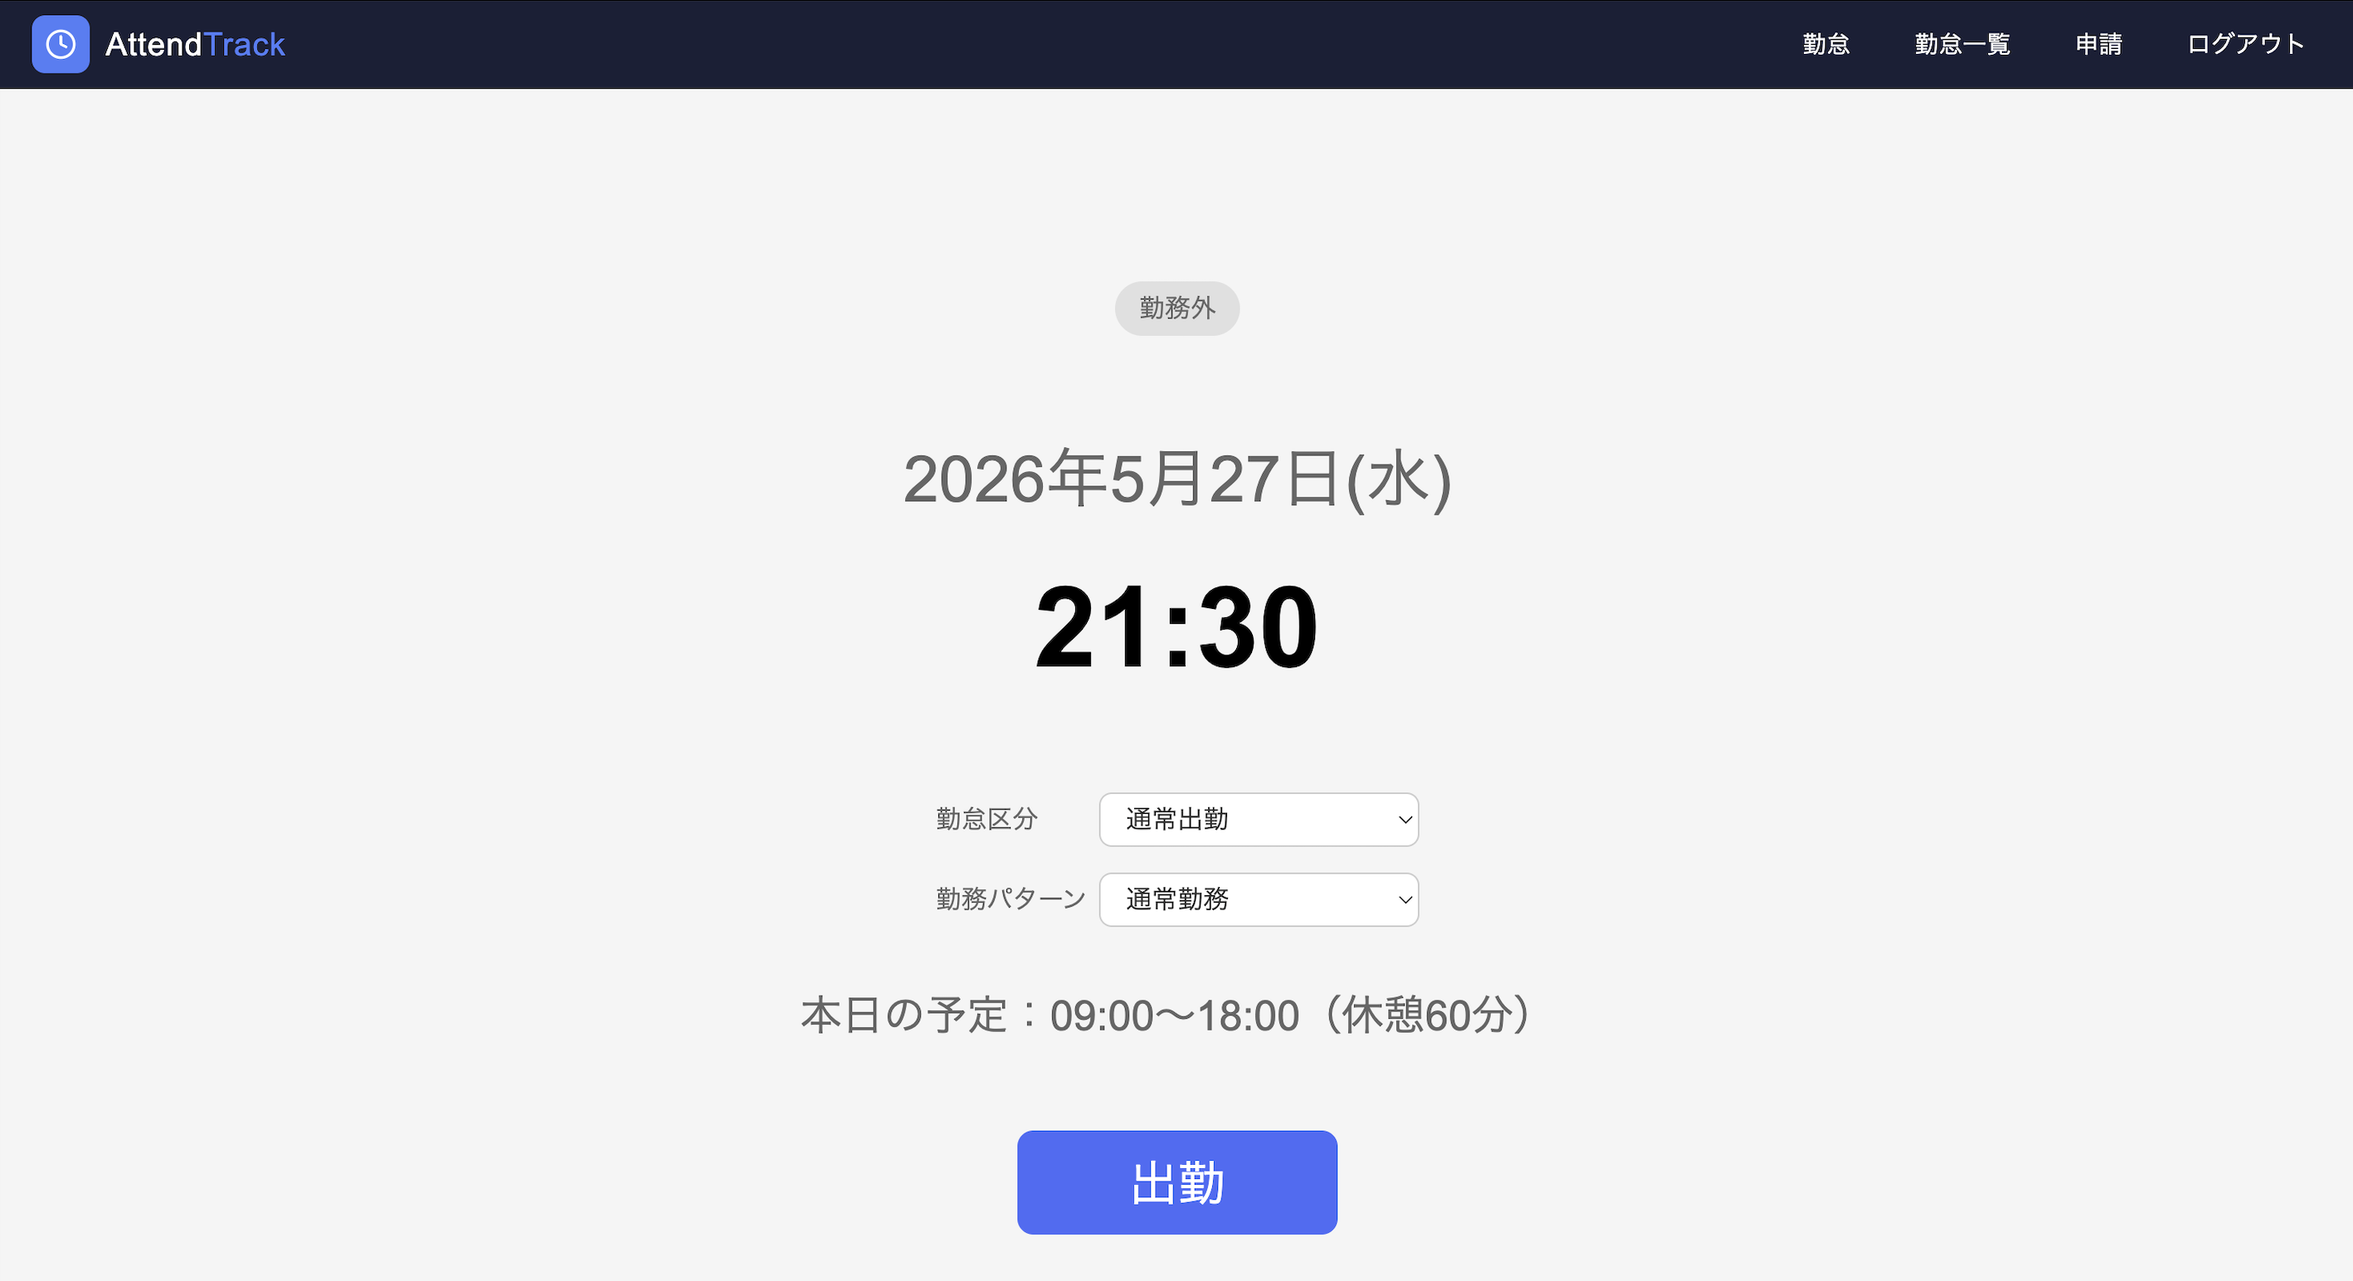
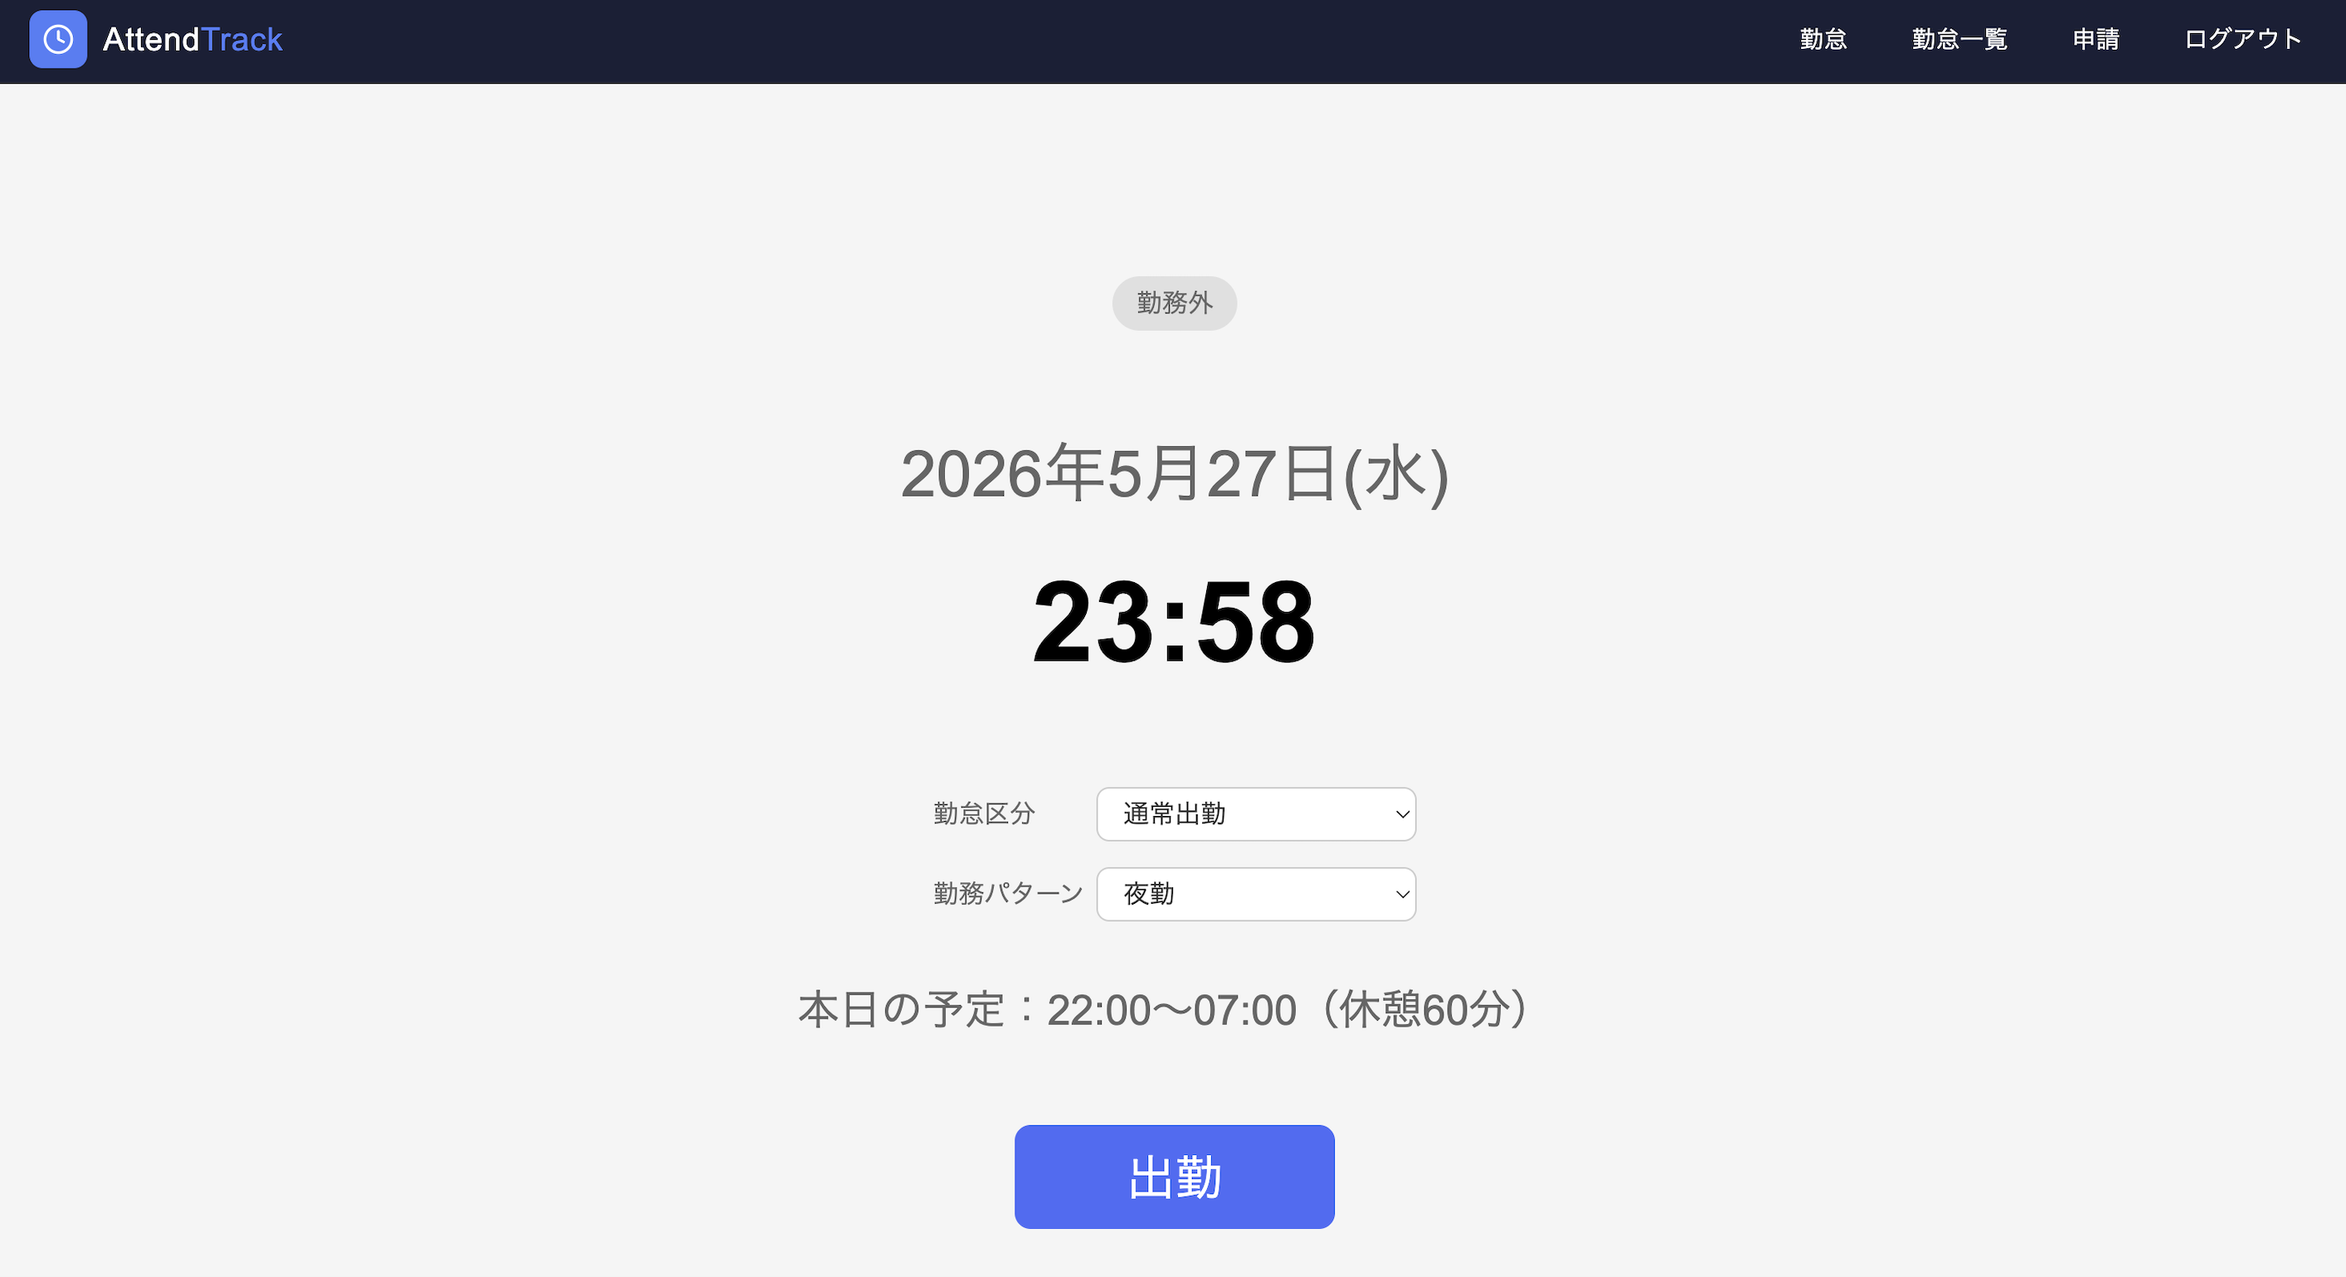
feat: 勤怠アプリをAttendTrackに全面更新

diff --git a/index.html b/index.html
@@ -58,7 +58,7 @@
                 </header>
 
                 <p class="project-card__lead">
-                    管理者が投稿するレシピを、会員ユーザーが閲覧・お気に入り・コメントできるアプリです。<br>Firebase認証とストレージ、Laravel API、Nuxt
+                    管理者が投稿するレシピを、会員ユーザーが閲覧・お気に入り・コメントできるアプリです。Firebase認証とストレージ、Laravel API、Nuxt
                     3で構成し、PC/スマホに最適化しています。
                 </p>
 
@@ -205,7 +205,8 @@
                 </header>
 
                 <p class="project-card__lead">
-                    スタッフの出退勤管理と修正申請・承認フローを実装した勤怠管理アプリです。<br>打刻機能、休憩記録、CSV出力機能を備え、管理者による承認フローを実現しています。
+                    締め日設定・丸め処理・勤務パターン・勤怠区分など細かい設定を管理者が自由にカスタマイズできます。
+                    PDF出力・請求書メール送信・代理入力・現場リーダー承認など、実務を想定した機能を段階的に実装しました。
                 </p>
 
                 <!-- ギャラリー -->
@@ -214,50 +215,50 @@
                         <div class="slider__track">
                             <div class="slide">
                                 <figure>
-                                    <img src="images/attendance/start-work-button.png" alt="出勤入力画面:登録/ログイン導線">
-                                    <figcaption>ユーザー:出勤時間入力</figcaption>
+                                    <img src="images/attendance/attendance-register.png" alt="打刻画面">
+                                    <figcaption>ユーザー:打刻画面</figcaption>
                                 </figure>
                             </div>
                             <div class="slide">
                                 <figure>
-                                    <img src="images/attendance/attendance-register.png" alt="休憩・退勤時間入力">
-                                    <figcaption>ユーザー:休憩・退勤時間入力</figcaption>
+                                    <img src="images/attendance/staff-list.png" alt="スタッフ一覧">
+                                    <figcaption>管理:スタッフ一覧（時給管理）</figcaption>
                                 </figure>
                             </div>
                             <div class="slide">
                                 <figure>
-                                    <img src="images/attendance/user-list.png" alt="勤怠一覧">
-                                    <figcaption>ユーザー:勤怠一覧</figcaption>
+                                    <img src="images/attendance/start-work-button.png" alt="勤務パターン設定">
+                                    <figcaption>管理:勤務パターン設定</figcaption>
                                 </figure>
                             </div>
                             <div class="slide">
                                 <figure>
-                                    <img src="images/attendance/user-detail.png" alt="勤怠詳細/修正/申請">
-                                    <figcaption>ユーザー:勤怠詳細/修正/申請</figcaption>
+                                    <img src="images/attendance/user-detail.png" alt="勤怠区分設定">
+                                    <figcaption>管理:勤怠区分設定</figcaption>
                                 </figure>
                             </div>
                             <div class="slide">
                                 <figure>
-                                    <img src="images/attendance/application-list.png" alt="申請一覧">
-                                    <figcaption>ユーザー:申請一覧</figcaption>
+                                    <img src="images/attendance/user-list.png" alt="締め日設定">
+                                    <figcaption>管理:締め日設定</figcaption>
                                 </figure>
                             </div>
                             <div class="slide">
                                 <figure>
-                                    <img src="images/attendance/staff-list.png" alt="管理:ユーザー一覧">
-                                    <figcaption>管理:ユーザー一覧</figcaption>
+                                    <img src="images/attendance/admin-attendance-request-detail.png" alt="リーダー承認設定">
+                                    <figcaption>管理:リーダー承認設定</figcaption>
                                 </figure>
                             </div>
                             <div class="slide">
                                 <figure>
-                                    <img src="images/attendance/csv-export.png" alt="管理:ユーザー詳細/CSV出力">
-                                    <figcaption>管理:ユーザー詳細/CSV出力</figcaption>
+                                    <img src="images/attendance/application-list.png" alt="代理入力">
+                                    <figcaption>管理:代理入力</figcaption>
                                 </figure>
                             </div>
                             <div class="slide">
                                 <figure>
-                                    <img src="images/attendance/admin-attendance-request-detail.png" alt="管理:申請詳細/承認">
-                                    <figcaption>管理:申請詳細/承認</figcaption>
+                                    <img src="images/attendance/csv-export.png" alt="PDF出力・請求書送信">
+                                    <figcaption>管理:PDF出力・請求書送信</figcaption>
                                 </figure>
                             </div>
                         </div>
@@ -274,75 +275,69 @@
                     <div class="project-card__col">
                         <h4>ユーザー機能</h4>
                         <ul class="list">
-                            <li>出勤・退勤打刻(リアルタイム)</li>
+                            <li>出勤・退勤打刻（リアルタイム）</li>
                             <li>休憩開始・終了記録</li>
-                            <li>勤怠履歴の閲覧(月次カレンダー)</li>
-                            <li>勤怠詳細表示</li>
+                            <li>勤怠区分・勤務パターン選択</li>
+                            <li>勤怠履歴の閲覧（月次一覧）</li>
                             <li>勤怠データの修正申請</li>
-                            <li>申請一覧の確認(承認待ち/承認済み)</li>
+                            <li>申請一覧の確認（承認待ち/承認済み）</li>
                         </ul>
 
                         <h4>管理者機能</h4>
                         <ul class="list">
-                            <li>スタッフ一覧表示</li>
-                            <li>日次勤怠一覧の確認</li>
-                            <li>スタッフ別月次勤怠の確認</li>
-                            <li>勤怠データの直接修正</li>
-                            <li>修正申請一覧の確認(承認待ち/承認済み)</li>
-                            <li>修正申請の承認・却下</li>
+                            <li>スタッフ一覧・時給管理</li>
+                            <li>締め日設定（15日・20日・末日など）</li>
+                            <li>丸め処理設定（1/5/10/15/30分・自由設定）</li>
+                            <li>勤務パターン登録（シフト自動入力補助）</li>
+                            <li>勤怠区分登録（欠勤・有給・休日出勤など）</li>
+                            <li>現場リーダー承認（シークレット番号による承認）</li>
+                            <li>代理入力（管理者がスタッフ分を入力）</li>
+                            <li>締め日ごとの集計・修正時メール通知</li>
+                            <li>PDF出力・請求書メール送信</li>
                             <li>月別勤怠データのCSV出力</li>
                         </ul>
 
                         <h4>技術スタック</h4>
                         <ul class="chips">
-                            <li>PHP 8.2 / Laravel 8.75</li>
+                            <li>PHP 8.2 / Laravel 11</li>
                             <li>MySQL 8.0</li>
                             <li>Nginx</li>
                             <li>Docker / Docker Compose</li>
-                            <li>Laravel Fortify (認証)</li>
+                            <li>Laravel Fortify（認証）</li>
+                            <li>MailHog（メール確認）</li>
                         </ul>
 
-                        <h4>制作</h4>
-                        <p>プログラミングスクール課題(個人実装)</p>
                     </div>
 
                     <div class="project-card__col">
                         <h4>実装内容</h4>
-                        <p>フルスタック実装 / 認証機能 / 勤怠管理機能 / 申請・承認機能 / CSV出力 / Docker環境構築 / PHPUnit テスト</p>
+                        <p>フルスタック実装 / 認証機能 / 勤怠打刻・集計 / 深夜・残業・休日出勤計算 / 丸め処理 / 締め日集計 / 承認フロー / 代理入力 / PDF出力 / 請求書メール送信 / Docker環境構築 /
+                            レスポンシブ対応</p>
 
                         <h4>GitHub</h4>
                         <p>
-                            <a href="https://github.com/ichiki925/attendance-app-demo" target="_blank" rel="noopener">
-                                バックエンド(Attendance App Demo)
+                            <a href="https://github.com/ichiki925/attendance-app" target="_blank" rel="noopener">
+                                バックエンド（AttendTrack）
                             </a>
                         </p>
 
                         <h4>アプリURL</h4>
-                        <p>
-                            <strong>ユーザー側：</strong><br>
-                            <a href="https://attendance.k-ichiki.com/login" target="_blank" rel="noopener">
-                                https://attendance.k-ichiki.com/login
-                            </a>
-                        </p>
-                        <p>「一般ユーザーでログイン」ボタンからアプリを体験することができます。</p>
-
-                        <p>
-                            <strong>管理者側：</strong><br>
-                            <a href="https://attendance.k-ichiki.com/admin/login" target="_blank" rel="noopener">
-                                https://attendance.k-ichiki.com/admin/login
-                            </a>
-                        </p>
-                        <p>「管理者デモでログイン」ボタンから管理機能を体験することができます。</p>
+                        <p class="note">※ 現在デプロイ準備中です。</p>
 
                         <h4>こだわりポイント</h4>
                         <ul class="list">
-                            <li>リアルタイム打刻機能（出勤・休憩・退勤）</li>
-                            <li>修正申請・承認フローの実装</li>
-                            <li>月別勤怠データのCSV出力（UTF-8/Shift-JIS対応）</li>
-                            <li>Laravel Fortifyによる安全な認証</li>
-                            <li>レスポンシブ対応（スマホ・タブレット）</li>
-                            <li>デモログイン機能（自動ログイン・データリセット）</li>
+                            <li>深夜・残業・休日出勤・60時間超残業の自動計算</li>
+                            <li>締め日・丸め処理を管理者が自由にカスタマイズ可能</li>
+                            <li>勤務パターン登録でシフト自動入力補助（2交代・3交代対応）</li>
+                            <li>現場リーダーによる多段階承認フロー</li>
+                            <li>締め日ごとの集計・修正時に関係者へメール通知</li>
+                            <li>PDF出力・請求書メール送信の自動化</li>
+                            <li>代理入力で管理者がスタッフ分を柔軟に対応</li>
+                            <li>レスポンシブ対応・ハンバーガーメニュー（スマホ重視）</li>
                         </ul>
+
+                        <h4>制作</h4>
+                        <p>個人開発</p>
                     </div>
                 </div>
 
@@ -355,7 +350,7 @@
                 </header>
 
                 <p class="project-card__lead">
-                    個人間で商品を売買できるフリマアプリです。<br>出品・購入・チャット・レビュー機能を実装しています。
+                    個人間で商品を売買できるフリマアプリです。出品・購入・チャット・レビュー機能を実装しています。
                 </p>
 
                 <!-- ギャラリー -->
@@ -494,7 +489,7 @@
                 </header>
 
                 <p class="project-card__lead">
-                    投稿・いいね・コメント機能を実装したTwitter風SNSアプリです。<br>Firebase認証とリアルタイム更新で、ユーザー同士のコミュニケーションを実現しています。
+                    投稿・いいね・コメント機能を実装したTwitter風SNSアプリです。Firebase認証とリアルタイム更新で、ユーザー同士のコミュニケーションを実現しています。
                 </p>
 
                 <!-- ギャラリー -->
@@ -614,8 +609,8 @@
                 </header>
 
                 <p class="project-card__lead">
-                    ピアノ教室の生徒がレッスン枠を予約できるシステムです。<br>
-                    管理者側でレッスン枠を設定し、生徒が空き状況を確認して予約・キャンセルができます。<br>
+                    ピアノ教室の生徒がレッスン枠を予約できるシステムです。
+                    管理者側でレッスン枠を設定し、生徒が空き状況を確認して予約・キャンセルができます。
                     <strong>現在、実際に運用中のシステムです。</strong>
                 </p>
 

diff --git a/css/style-unified.css b/css/style-unified.css
@@ -579,8 +579,7 @@ a:visited {
     font-size: 2.3rem;
 }
 
-#works .project-card__head,
-#works .project-card__lead {
+#works .project-card__head {
     width: 100%;
     max-width: var(--inner);
     margin-left: auto;
@@ -588,6 +587,17 @@ a:visited {
     text-align: center;
     padding: 0 20px;
     box-sizing: border-box;
+}
+
+#works .project-card__lead {
+    width: 100%;
+    max-width: 800px;
+    margin-left: auto;
+    margin-right: auto;
+    text-align: left;
+    padding: 0 20px;
+    box-sizing: border-box;
+    margin-bottom: 2.5rem;
 }
 
 #works .slider {
